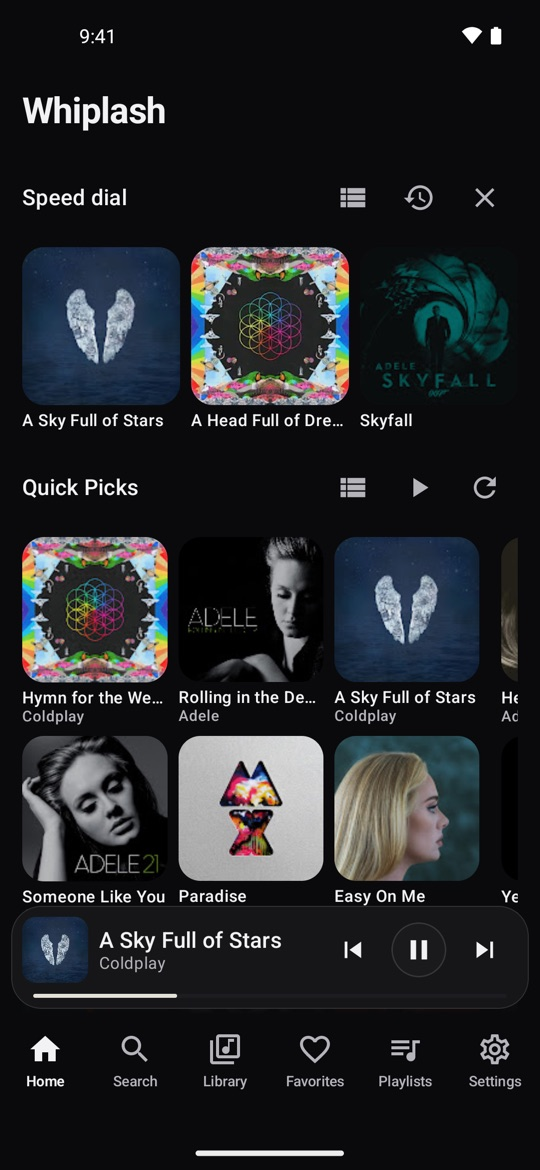
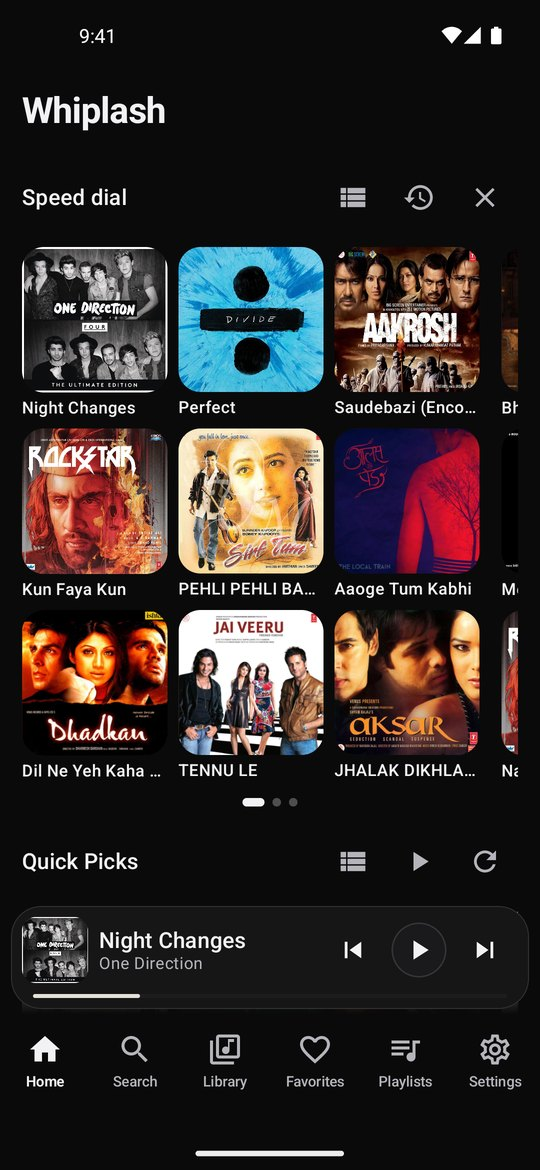
Update the screenshots for 1.1.0
The old ones showed the previous design.

diff --git a/docs/index.html b/docs/index.html
@@ -141,8 +141,8 @@
       </div>
       <div class="showcase">
         <figure class="shot reveal"><div class="frame"><img src="assets/home.jpg" alt="Whiplash Home screen with Speed dial and Quick Picks" loading="lazy" width="540" height="1170"></div><figcaption><strong>Home</strong>Speed dial & Quick Picks</figcaption></figure>
-        <figure class="shot reveal"><div class="frame"><img src="assets/player.jpg" alt="Full-screen player showing A Sky Full of Stars by Coldplay" loading="lazy" width="540" height="1170"></div><figcaption><strong>Now Playing</strong>Tinted by the artwork</figcaption></figure>
-        <figure class="shot reveal"><div class="frame"><img src="assets/lyrics.jpg" alt="Synced lyrics sheet highlighting the current line" loading="lazy" width="540" height="1170"></div><figcaption><strong>Lyrics</strong>Line by line, in time</figcaption></figure>
+        <figure class="shot reveal"><div class="frame"><img src="assets/player.jpg" alt="Full-screen player showing Perfect by Ed Sheeran" loading="lazy" width="540" height="1170"></div><figcaption><strong>Now Playing</strong>Tinted by the artwork</figcaption></figure>
+        <figure class="shot reveal"><div class="frame"><img src="assets/lyrics.jpg" alt="Full-screen synced lyrics highlighting the current line" loading="lazy" width="540" height="1170"></div><figcaption><strong>Lyrics</strong>Line by line, in time</figcaption></figure>
         <figure class="shot reveal"><div class="frame"><img src="assets/appearance.jpg" alt="Appearance settings with theme and accent colour pickers" loading="lazy" width="540" height="1170"></div><figcaption><strong>Themes</strong>Pick your look</figcaption></figure>
       </div>
     </div>

diff --git a/README.md b/README.md
@@ -66,7 +66,7 @@ The full list is in the [changelog](CHANGELOG.md).
 
 | Home | Now Playing | Lyrics | Themes |
 |:---:|:---:|:---:|:---:|
-| <img src="docs/assets/home.jpg" width="200" alt="Home with Speed dial and Quick Picks"> | <img src="docs/assets/player.jpg" width="200" alt="Now Playing screen"> | <img src="docs/assets/lyrics.jpg" width="200" alt="Synced lyrics"> | <img src="docs/assets/appearance.jpg" width="200" alt="Appearance settings"> |
+| <img src="docs/assets/home.jpg" width="200" alt="Home with Speed dial and Quick Picks"> | <img src="docs/assets/player.jpg" width="200" alt="Now Playing: Perfect by Ed Sheeran"> | <img src="docs/assets/lyrics.jpg" width="200" alt="Synced lyrics"> | <img src="docs/assets/appearance.jpg" width="200" alt="Appearance settings"> |
 
 </div>
 
